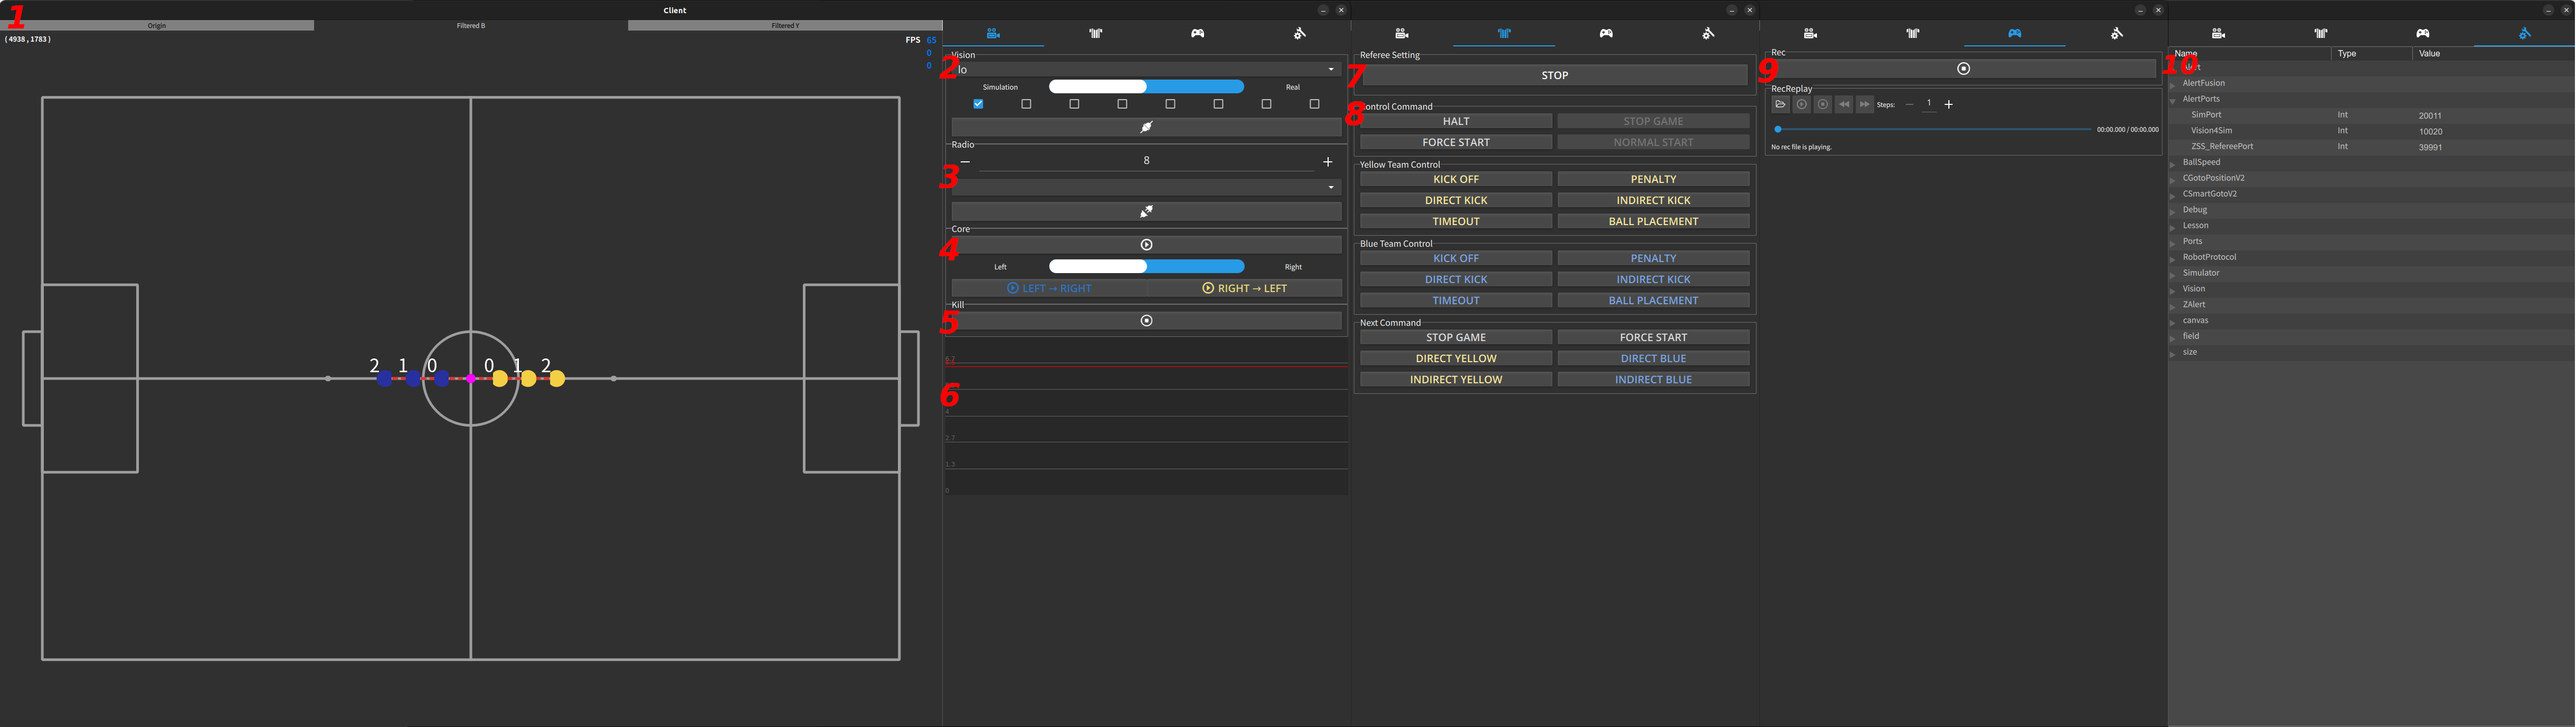
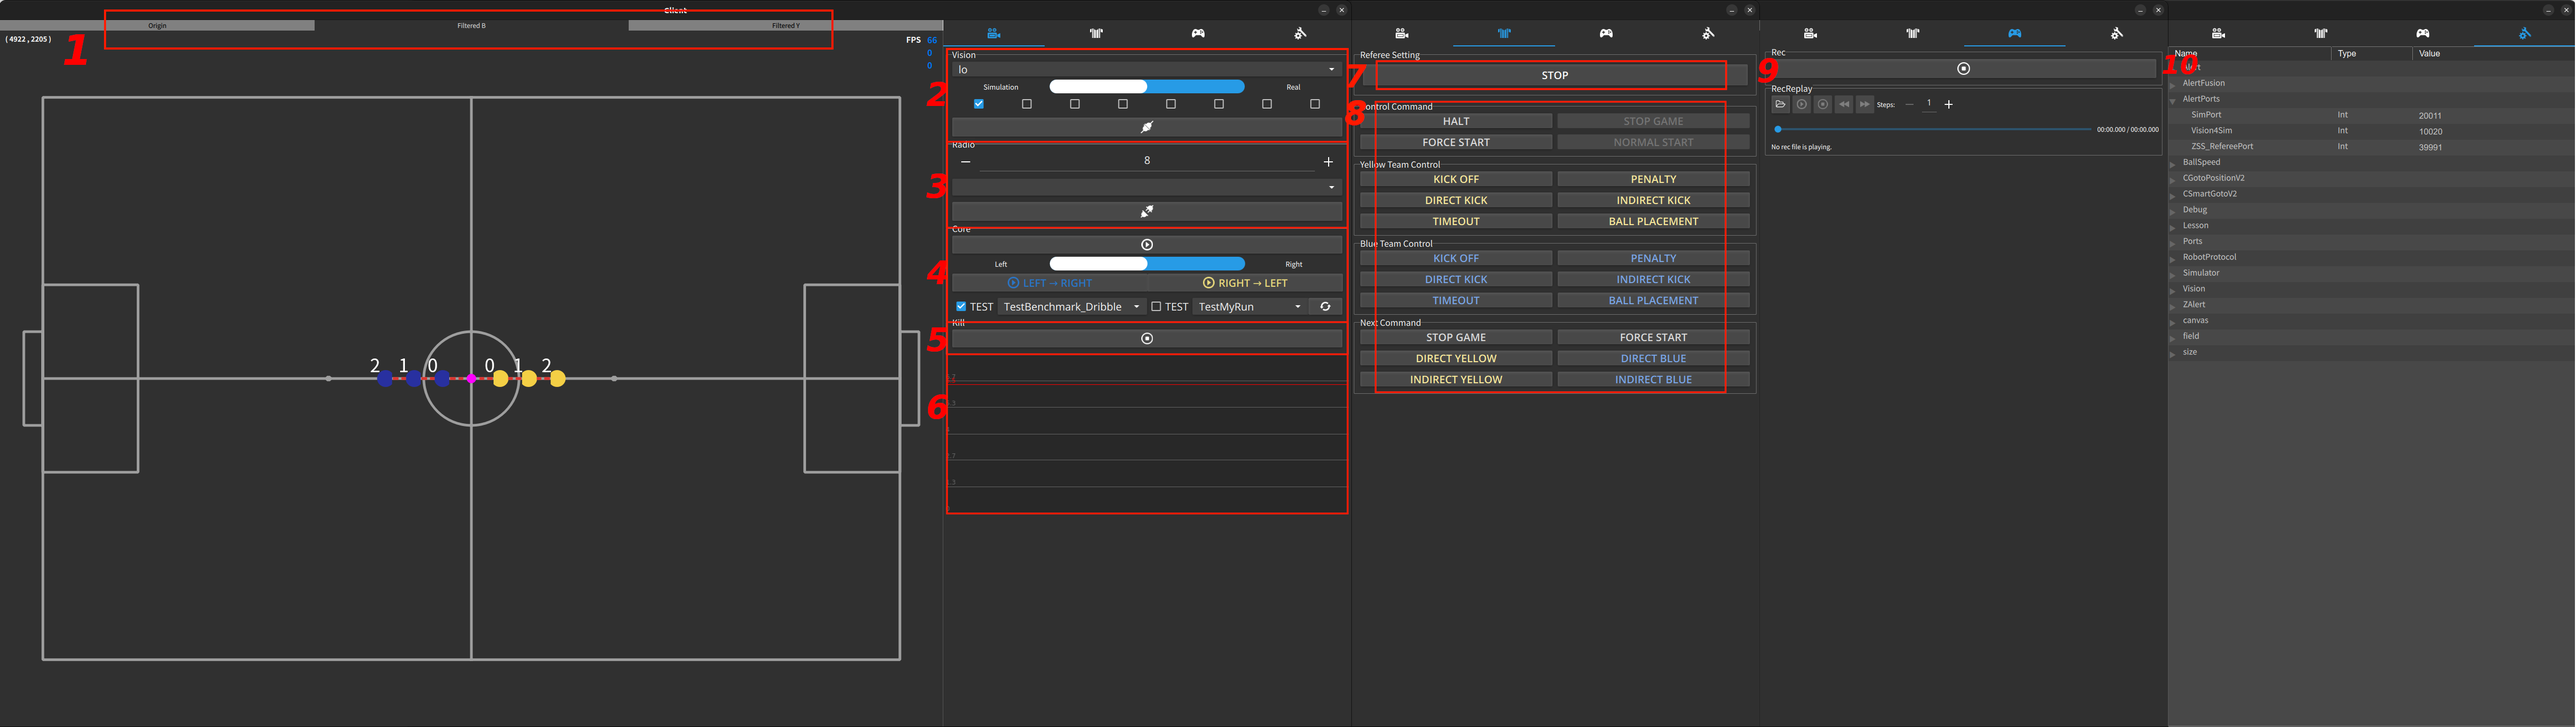
[doc] finish 1_2

diff --git a/doc/posts/1_rocos_basic/1_1.md b/doc/posts/1_rocos_basic/1_1.md
@@ -36,7 +36,7 @@
 
 * **②图像控件**：图像控制主要包含功能有，设置连接的网关、设置仿真或实物、摄像头控制、连接与断开。分别对应②的从上至下ABCD四行。D是接收图像的连接按钮，若B选择的是仿真，则会同时启动一个仿真。C是具体接收图像的摄像头控制，最多支持接收八个摄像头，目前国际规则中2018年采用的8DC1394 CAM \* 8 是目前已知的最多摄像头个数。C的某一个打钩记为需要接收该ID摄像头的图像才进行图像合并。A为运行实际机器人时需要关注的网关，一台电脑经常会有若干个网关，例如无线、有线、虚拟机自建网关。一般在场地搭建时，采用有线局域网的方式接收实物的图像数据，一般会在A处选择类似于`enp12s0`这样的代表有线网络的**网关名称**。**在连接仿真时，只需要点击D连接按钮即可；在连接实际场地时，需要先设置网关，再点击连接，必要时需要点击摄像头控制开关保证稳定的融合图像。**
 * **③发射机控件**：在运行实物机器人时，需要通过特定的发射机作为中介来完成电脑端与机器人的通信。发射机通过串口连接电脑，B下拉菜单会显示电脑识别到的所有可能的串口，每秒刷新。A是配置发射机所需要的频点即发射机与机器人的特定通讯频段。在设置好频点以及发射机串口后，点击C按钮可以连接发射机并配置频点。值得注意的是，由于当前发射机的串口通信机制，运行实物程序的时候，需要保持⑦为连接状态。**发射机控件只在需要连接实物机器人时才需要使用。**
-* **④策略程序控件**：在连接仿真或实物后，需要选择一个策略程序来运行。在开启一个策略程序之前，需要确认启动的颜色以及进攻方向。B开关用于设置进攻方向，然后点击C对应的按钮启动或关闭策略程序。在日常测试情况下，不会用到A处的守护进程按钮。
+* **④策略程序控件**：在连接仿真或实物后，需要选择一个策略程序来运行。在开启一个策略程序之前，需要确认启动的颜色以及进攻方向。B开关用于设置进攻方向，然后点击C对应的按钮启动或关闭策略程序。D可以对策略程序的测试模式以及脚本进行设置，我们将在[书写Play](#test_script)一节用到。在日常测试情况下，不会用到A处的守护进程按钮。
     > 守护进程按钮是一个特殊的按钮，用于比赛中防止策略程序意外崩溃。在比赛中，一旦策略程序意外退出，会导致机器人停止运动，这是非常危险的。为了防止这种情况发生，我们可以在比赛前启动守护进程，它会监控策略程序的运行状态，一旦策略程序意外退出，它会自动重启策略程序。启动守护进程会有一个终端窗口弹出，显示守护进程的运行状态。此时如果通过Ctrl-C或鼠标关闭终端，守护进程会识别到关闭并自动重新启动一个新的终端窗口。
     > 
     > 守护进程按钮会自动启动上一次运行过的策略程序的配置。例如在比赛中，需要启动黄方由右向左进攻的守护进程，则在设置好方向后，点击C的黄方按钮两次，第一次启动策略程序刷新一下所需配置，第二次用于关闭守护进程。再点击守护进程按钮，若要在启动了守护进程的状态下关闭守护进程，则先在界面的④-A处关闭守护进程，再将守护进程启动的Core程序所在的终端关闭即可。

diff --git a/doc/posts/1_rocos_basic/1_2_simple_play.md b/doc/posts/1_rocos_basic/1_2_simple_play.md
@@ -97,4 +97,23 @@ name = 'TestMyRun',
 
 在这个Play中，我们定义了两个状态`run1`和`run2`，在`run1`状态下，Leader角色执行`task.goCmuRush(CGeoPoint(1000,1000))`任务，向目标点移动。在`run2`状态下，Leader角色执行`task.goCmuRush(CGeoPoint(-1000,-1000))`任务，向目标点移动。当Leader角色到达目标点时，切换到另一个状态。
 
-## 运行&测试Play[TODO]
+(test_script)=
+## 运行&测试Play
+
+:::{admonition} 提示
+如果你熟悉最初的Rocos，那么你可能会发现，在`Rocos v0.1`之后，我们引入了战术包的概念以此来分离框架代码和策略代码来进一步简化策略的构建和测试流程。针对运行和测试Play而言，你不再需要在`Config.lua`中进行手动设置，而可以直接在`Client`中图形化的进行操作。
+:::
+
+在完成Play的编写之后，我们可以通过`Client`来运行和测试Play。
+
+::::{card} Client中针对Play测试的设置和按钮
+:text-align: center
+
+:::{thumbnail} ../../img/client_test_settings.png
+:::
+
+::::
+
+`Client`的每次重启都会加载最新的战术包，如果不重启也可以手动刷新。你可以通过勾选设置是否进入测试模式，并在下拉框中选择你想要测试的Play，然后点击按钮来运行。
+
+现在你可以通过界面配置并执行刚刚书写的`TestMyRun`了。
